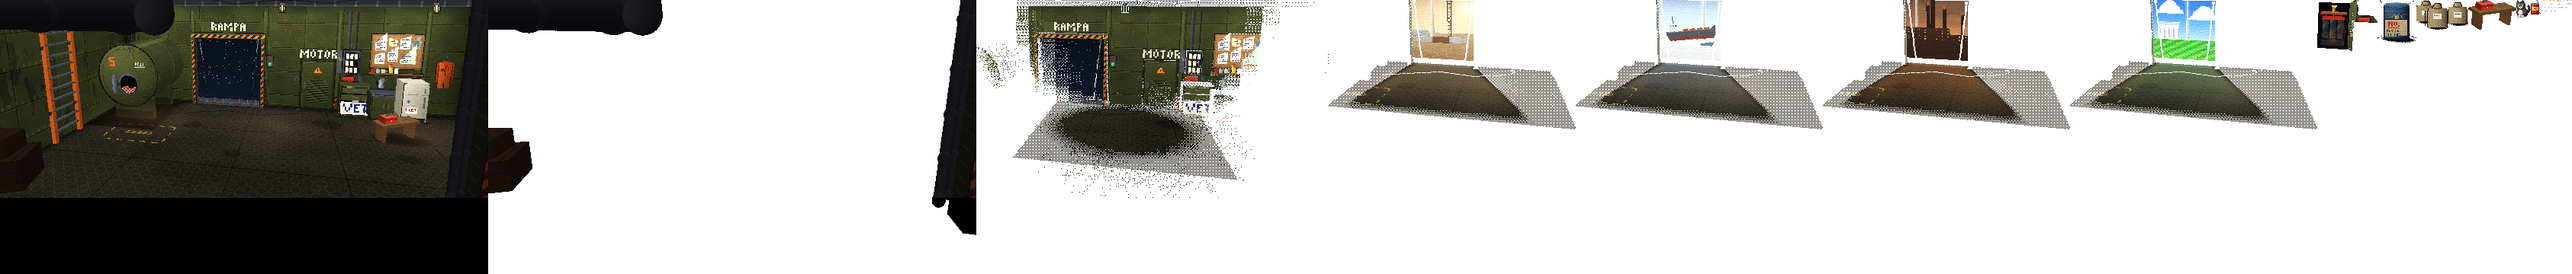
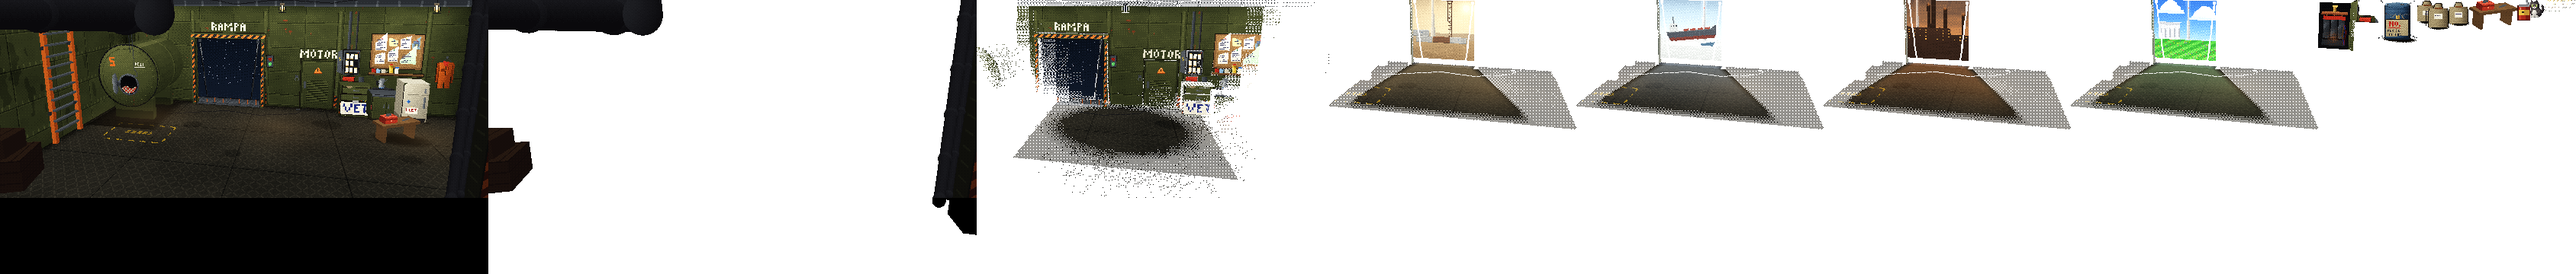
Aigua Verne: la llauna d'oli de la bodega, més grossa i damunt del barril, on no la tapa qui va al motor (298)

diff --git a/games/aigua-verne/adapters/benne/tools/hd640/rooms/cantimplora_bodega.py b/games/aigua-verne/adapters/benne/tools/hd640/rooms/cantimplora_bodega.py
@@ -495,9 +495,11 @@ def diu_carmanyola(cv):
     cv.img.alpha_composite(_damunt(d))
 
 
-# La llauna d'oli (tasca 084): a terra, a l'esquerra del motor, de cara a la càmera. Vermella, amb el broc i una
-# etiqueta groga: es distingeix de l'oliva de la paret. Desapareix quan s'agafa (`oli_agafat`).
-LLAUNA = (PL.MOTOR[0] - OFF + 10, ZW - 14)          # x, z del món: davant del panell del motor
+# La llauna d'oli (tasca 084): damunt del barril, al costat del motor, de cara a la càmera (tasca 298: a terra era una
+# taqueta que tapava qui anava al motor). Vermella, amb el broc i una etiqueta groga: es distingeix de l'oliva de la
+# paret i del blau del barril. Desapareix quan s'agafa (`oli_agafat`).
+LLAUNA_Y = 67                                        # l'alçada de la tapa del barril
+LLAUNA_ESCALA = 2.0
 
 
 def _llauna_img():
@@ -528,14 +530,12 @@ def _llauna_img():
 
 
 def llauna(cv):
-    """La llauna d'oli de motor, a terra al costat del motor, amb la seva ombra."""
+    """La llauna d'oli de motor, damunt del barril del costat del motor."""
     img = _llauna_img()
     x, z = LLAUNA
 
     def d(e):
-        e.foscor('ombra_llauna', (x - 8, 0.6, z + 6), (x + 10, 0.6, z + 6), (x + 10, 0.6, z - 6), (x - 8, 0.6, z - 6),
-                 lambda s, t: 0.55 * max(0.0, 1 - ((s - 9) / 9) ** 2 - ((t - 6) / 6) ** 2))
-        e.sprite('llauna', img, (7, 17), (x, 0, z), escala_img=1.4)
+        e.sprite('llauna', img, (7, 17), (x, LLAUNA_Y, z), escala_img=LLAUNA_ESCALA)
     cv.img.alpha_composite(_damunt(d))
 
 
@@ -636,6 +636,7 @@ _DIU_UV = CAM.projecta(_DIU)
 _LX, _LZ = LADDER_Z
 _CX = (CAL[0], FRI[1])
 bx_, bz_ = BARREL
+LLAUNA = (bx_ + 4, bz_ - 10)                         # x, z del món: damunt del barril
 
 GEOMETRIA = {
     'things': {
@@ -648,8 +649,9 @@ GEOMETRIA = {
                     'walk': _p((CARGO[0] + CARGO[1]) / 2, CARGO[2] - 8)},
         'rampa': {'rect': _rect_mon((RAMP_X[0], RAMP_H, ZW), (RAMP_X[1], 0, ZW)),
                   'walk': _p((RAMP_X[0] + RAMP_X[1]) / 2, 260)},
-        'llauna': {'rect': _caixa_mon(LLAUNA[0] - 11, LLAUNA[0] + 11, 0, 28, LLAUNA[1] - 4, LLAUNA[1] + 4),
-                   'walk': _p(LLAUNA[0] + 6, LLAUNA[1] - 30)},
+        'llauna': {'rect': _caixa_mon(LLAUNA[0] - 16, LLAUNA[0] + 16, LLAUNA_Y - 2, LLAUNA_Y + 38,
+                                      LLAUNA[1] - 4, LLAUNA[1] + 4),
+                   'walk': _p(bx_, 246)},
         'barril': {'rect': _caixa_mon(bx_ - 24, bx_ + 24, 0, 74, bz_, bz_),
                    'walk': _p(bx_, 246)},
         'motor': {'rect': _rect_mon((PL.MOTOR[0] - OFF - 4, FY - PL.MOTOR[1] + 14, ZW),
@@ -702,7 +704,3 @@ GEOMETRIA = {
     },
 }
 
-# (el motor s'acaba on comença la llauna d'oli, que és a terra davant seu: si no, el clic a la llauna se'l quedava el
-# motor)
-_m = GEOMETRIA['things']['motor']['rect']
-GEOMETRIA['things']['motor']['rect'] = (_m[0], _m[1], _m[2], min(_m[3], GEOMETRIA['things']['llauna']['rect'][1] - 1))
